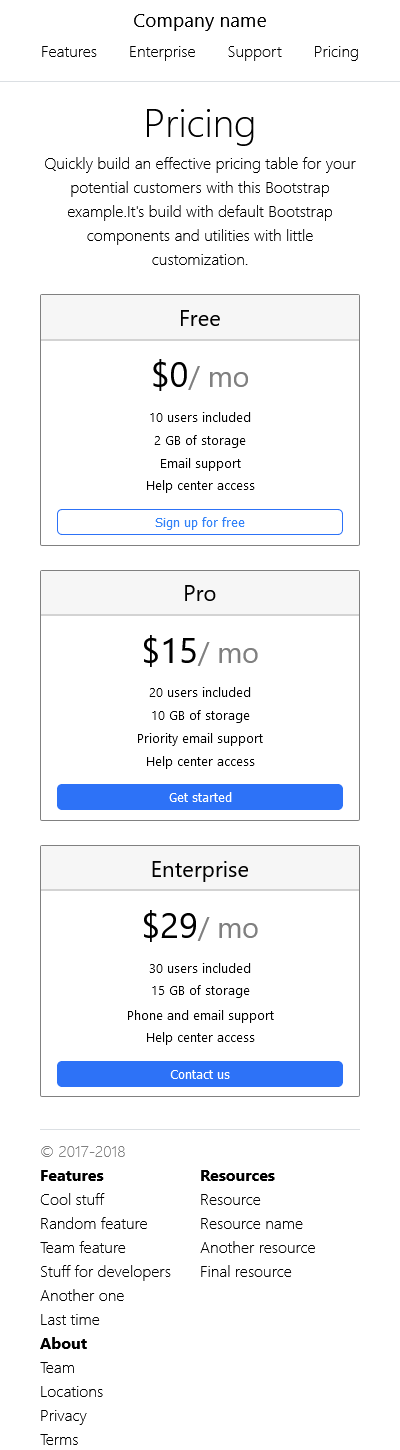
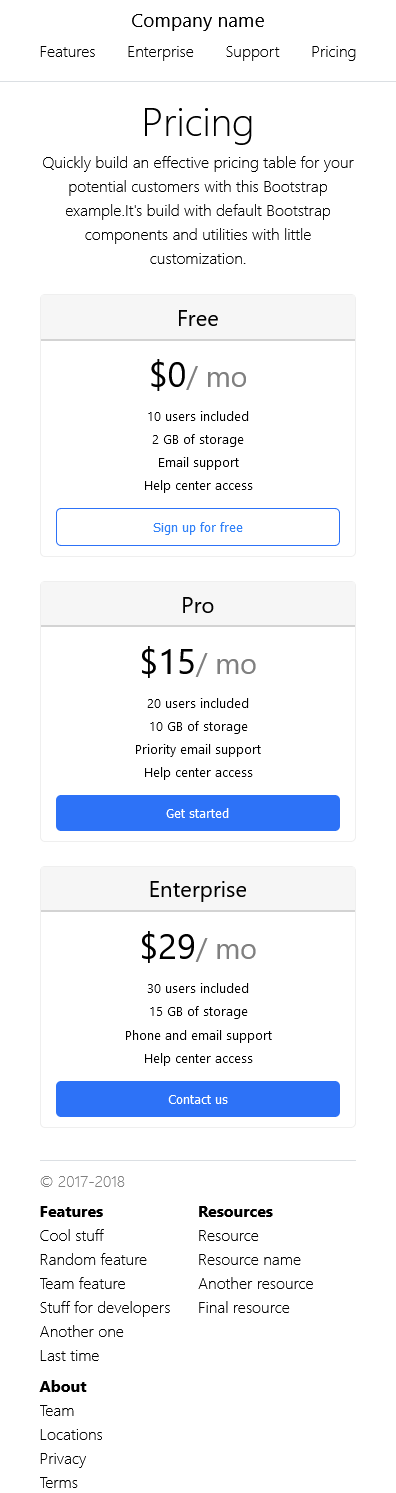
Assignment2 latest updated

diff --git a/assignment2/src/desktop.css b/assignment2/src/desktop.css
@@ -76,14 +76,14 @@
         margin-top: 5%;
         border-radius: 5px;
         border: none;
-        padding: 5px 10px;
+        padding: 10px 10px;
     }
     button.sign-up-btn{
         width: 80%;
         height: 20%;
         margin: auto;
         margin-top: 5%;
-        padding: 4px 10px;
+        padding: 10px 10px;
         border: 1px solid #2d72f7;
         border-radius: 5px;
     }
@@ -95,5 +95,13 @@
         justify-content: space-between;
         flex-wrap: nowrap;
     }
+    .about{
+        padding-top: 0px;
+        }
+    
+        p.pricing-para {
+            width: 60%;
+            margin: auto;
+          }
     
 }

diff --git a/assignment2/src/utility.css b/assignment2/src/utility.css
@@ -42,8 +42,8 @@ nav ul li a {
 }
 .card {
   width: 30%;
-  border: 1px solid gray;
-  border-radius: 2px;
+  border: 1px solid #efefef;
+  border-radius: 5px;
 }
 .card-heading {
   font-size: 1.4rem;
@@ -112,7 +112,7 @@ button.card-button{
   margin: auto;
   margin-top: 3%;
   margin-bottom: 3%;
-  padding: 5px 10px;
+  padding: 10px 10px;
   border-radius: 5px;
   font-weight: 100;
 }
@@ -127,6 +127,11 @@ button.sign-up-btn {
 }
 .copy-right {
   color: gray;
+  padding-bottom: 2%;
+}
+
+.about{
+padding-top: 2%;
 }
 
 footer {

diff --git a/assignment2/src/tablet.css b/assignment2/src/tablet.css
@@ -66,4 +66,8 @@
       margin-right: auto;
 
   }
+  p.pricing-para {
+    width: 95%;
+    margin: auto;
+  }
 }

diff --git a/assignment2/src/mobile.css b/assignment2/src/mobile.css
@@ -71,5 +71,6 @@ p.pricing-para{
 }
 
 button.card-button{
+  padding: 10px 10px;
     margin-top: 4%;
 }
